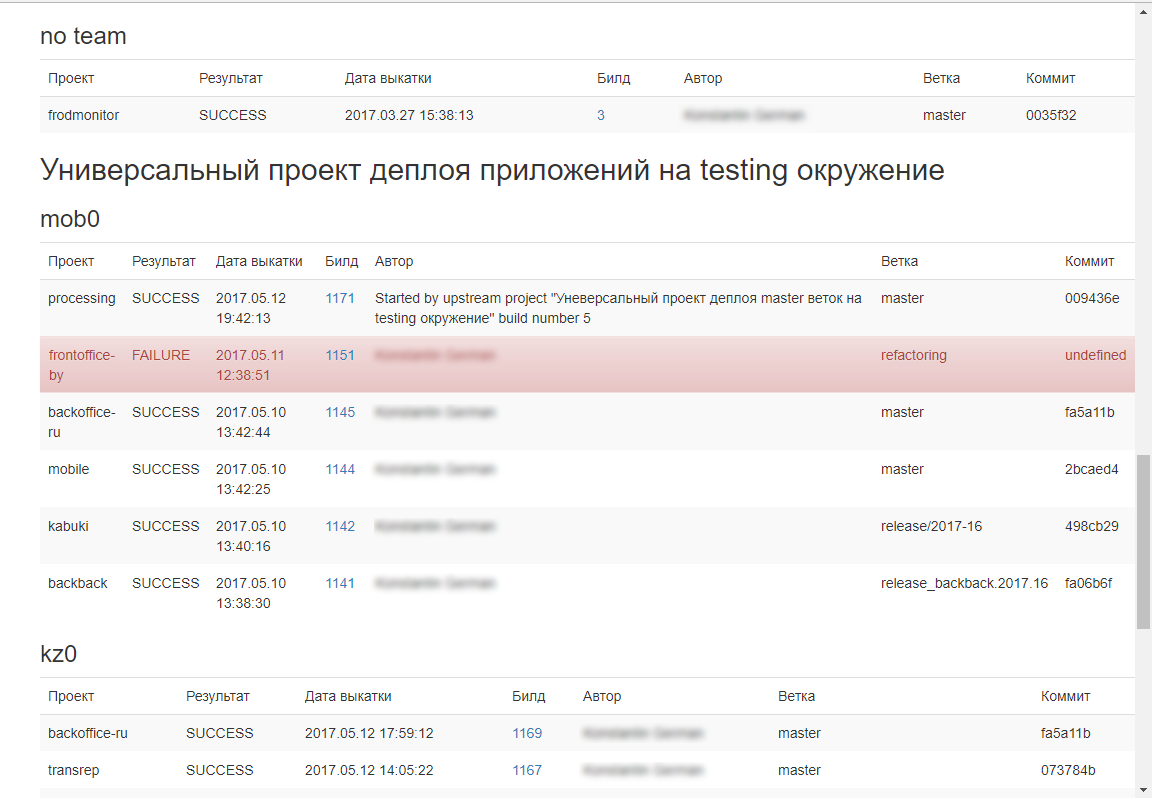
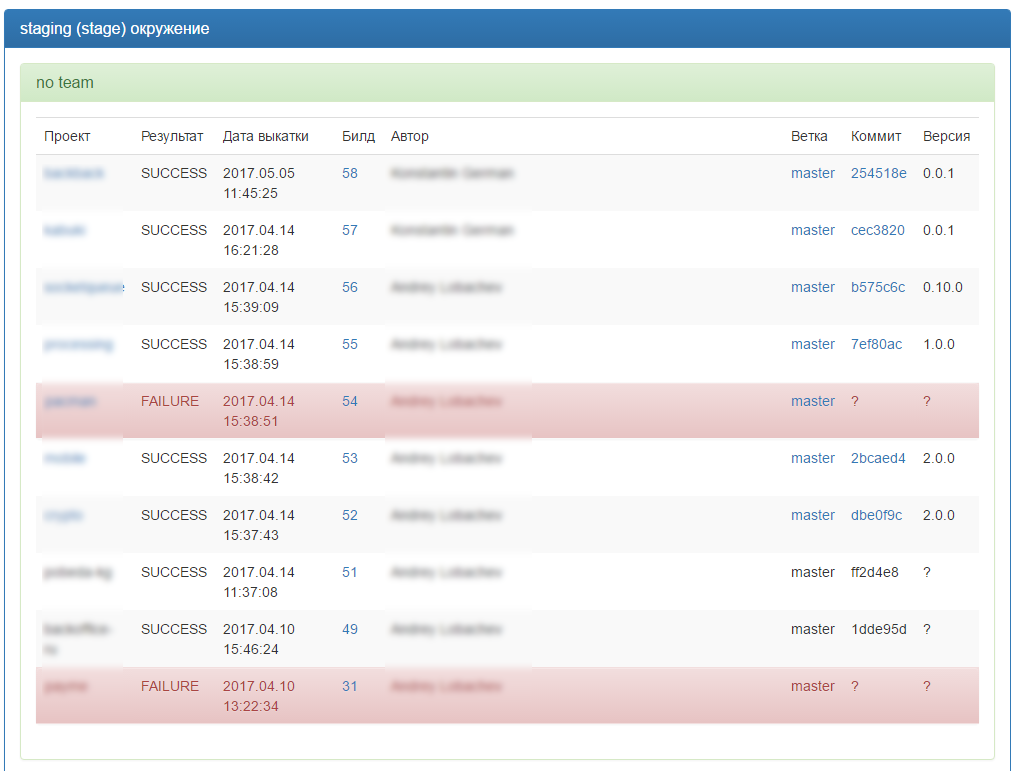
version detection, more caching, better ui

diff --git a/routes/get.js b/routes/get.js
@@ -5,24 +5,26 @@ const Jenkins = require('jenkins'),
       config  = require('../config/default.json'),
       jenkins = Jenkins(config.jenkins),
       Gitlab  = require('gitlab'),
-      gitlab  = Gitlab(config.gitlab);
+      gitlab  = Gitlab(config.gitlab),
+      json    = require('json-promise');
+
 
 let gitlabProjects = [];
 // Listing projects
 function getGitlabProjects() {
   return new Promise((resolve, reject)=> {
-      gitlab.projects.all(function (projects) {
-        projects = projects.map(function (project) {
-          return {
-            name: project.name.toLowerCase().replace('pmv3-', '').replace('-app', '').replace('api', ''),
-            url: project.web_url,
-            fullName: project.name_with_namespace.toLowerCase()
-          }
-        });
-        resolve(projects);
-      })
-    }
-  )
+    gitlab.projects.all((projects)=> {
+      projects = projects.map((project)=> {
+        return {
+          name: project.name.toLowerCase().replace('pmv3-', '').replace('-app', '').replace('api', ''),
+          url: project.web_url,
+          id: project.id,
+          fullName: project.name_with_namespace.toLowerCase(),
+        };
+      });
+      resolve(projects);
+    });
+  });
 }
 
 function getRandomIntInclusive(min, max) {
@@ -44,12 +46,22 @@ function getJobData(job) {
       if (minBuild < 1) {
         minBuild = 1;
       }
-      for (let i = jobData.lastBuild.number; i > minBuild; i--) {
-        const getBuildInfo = PromiseRandomDelay()
-          .then(()=>jenkins.build.get(job.name, i))
-          .catch((err)=> {
-            console.log(`Warning: ${err}`);
+      for (let jobId = jobData.lastBuild.number; jobId > minBuild; jobId--) {
+        const cacheFilePath = `${config.cacheDir}/${job.name}_${jobId}.json`;
+        const getBuildInfo = fs.readJson(cacheFilePath)
+          .catch(()=> { // no cache file for job exists
+            console.log(`no cache found for ${cacheFilePath}`);
+            return PromiseRandomDelay()
+              .then(()=>jenkins.build.get(job.name, jobId))
+              .then((fetchedJobData)=> {
+                fs.writeJson(cacheFilePath, fetchedJobData);
+                return fetchedJobData;
+              })
+              .catch((err)=> {
+                console.log(`Warning: ${err}`);
+              });
           });
+
         promisesArray.push(getBuildInfo);
       }
       return Promise.all(promisesArray);
@@ -136,23 +148,53 @@ function updateDataFromJenkins() {
                   if (thisGitlabProject != null) {
                     buildData.projectUrl = thisGitlabProject.url;
                     buildData.branchUrl = `${thisGitlabProject.url}/tree/${buildData.branch}`;
+
                   }
 
-                  // get user and commit from log
+                  // get user from log
                   let pos = logData.indexOf("\n");
                   buildData.user = logData.substr(0, pos).replace('Started by user', '').trim();
+
+                  // get commit from log
                   const searchString = '== `Branch';
                   pos = logData.indexOf(searchString);
                   if (pos === -1) {
-                    return;
+                    return null;
                   }
                   const searchString2 = '(at ';
                   pos = logData.indexOf(searchString2, pos);
                   buildData.commit = logData.substr(pos + searchString2.length, 7);
                   // set commit log
-                  if (thisGitlabProject != null) {
-                    buildData.commit = `<a href="${thisGitlabProject.url}/commits/${buildData.commit}">${buildData.commit}</a>`
+                  if (thisGitlabProject === null) {
+                    return null;
                   }
+                  buildData.commitUrl = `${thisGitlabProject.url}/commits/${buildData.commit}`;
+
+                  // get version info
+                  return new Promise((resolve, reject)=> {
+                    gitlab.projects.repository.showFile({
+                      projectId: thisGitlabProject.id,
+                      ref: buildData.commit,
+                      file_path: 'package.json',
+                    }, (file)=> {
+                      // console.log;
+                      // console.log("=== File ===");
+                      // console.log(file);
+                      if (file) {
+                        resolve((new Buffer(file.content, 'base64')).toString());
+                      }
+                      else reject(new Error(`no could not get package.json file for ${projectName}`));
+                    });
+                  })
+                    .then((content)=> {
+                      return json.parse(content);
+                    })
+                    .then((packageObject)=> {
+                      buildData.version = packageObject.version;
+                    })
+                    .catch((err)=> {
+                      console.log(`Warning: ${err.toString()}`);
+                    });
                 });
               getLogPromises.push(getLogPromise);
             });
@@ -165,7 +207,8 @@ function updateDataFromJenkins() {
     })
     .then((currentState)=> {
       console.log('finished');
-      fs.writeJson(config.cacheFile, currentState);
+      const cacheFile=`${config.cacheDir}/data.json`;
+      fs.writeJson(cacheFile, currentState);
       return (currentState);
       // console.log(JSON.stringify(currentState, null, 3));
     })
@@ -175,12 +218,13 @@ function updateDataFromJenkins() {
     });
 }
 module.exports = (app)=> {
+  const cacheFile=`${config.cacheDir}/data.json`;
   app.post('/get', (req, res) => {
-    fs.stat(config.cacheFile)
+    fs.stat(cacheFile)
       .then((fileDate)=> {
         const cacheAge = (new Date().getTime() - fileDate.mtime.getTime());
         if (cacheAge < config.cacheTime * 1000 * 60) {
-          return fs.readJson(config.cacheFile)
+          return fs.readJson(cacheFile)
             .then((cacheObject)=> {
               res.send(cacheObject);
             });
@@ -191,7 +235,10 @@ module.exports = (app)=> {
       console.log(`Warning: ${e}`);
       console.log('fetching gitlab projects');
       getGitlabProjects()
-        .then((projects)=>gitlabProjects = projects)
+        .then((projects)=> {
+          gitlabProjects = projects;
+          return null;
+        })
         .then(()=>updateDataFromJenkins())
         .then((data)=> {
           res.send(data);

diff --git a/src/js/index.js b/src/js/index.js
@@ -32,7 +32,7 @@ $(function () {
         throw new Error(`Не пришло данных!' ${data}`);
       }
       data.forEach((jobData)=> {
-        Object.keys(jobData).forEach(function (jobName) {
+        Object.keys(jobData).forEach((jobName)=> {
 
           let jobDisplayName = jobName;
           const pos = jobName.indexOf(' на ');
@@ -44,10 +44,19 @@ $(function () {
               jobDisplayName = `test_${jobName.substr(pos + 4)}`;
             }
           }
-          parent.append(`<h2>${jobDisplayName}</h2>`);
-          const teamData = (jobData[jobName]);
-          Object.keys(teamData).forEach(function (teamName) {
-            parent.append(`<h3>${teamName}</h3>`);
+          const jobPanel = {
+            panelHeader: $(`<div class="panel-heading"><h2 class="panel-title">${jobDisplayName}</h2></div>`),
+            panelBody: $('<div class="panel-body">'),
+            parent: $('<div class="panel panel-primary">'),
+          };
+          const teamData = jobData[jobName];
+          Object.keys(teamData).forEach((teamName)=> {
+
+            const teamPanel = {
+              panelHeader: $(`<div class="panel-heading"><h3 class="panel-title">${teamName}</h3></div>`),
+              panelBody: $('<div class="panel-body">'),
+              parent: $('<div class="panel panel-success">'),
+            };
             const projectsTable = $('<table></table>');
             const projectsTableBody = $('<tbody></tbody>');
             projectsTable.append(projectsTableBody);
@@ -60,9 +69,10 @@ $(function () {
             projectsTableTitle.append('<td>Автор</td>');
             projectsTableTitle.append('<td>Ветка</td>');
             projectsTableTitle.append('<td>Коммит</td>');
+            projectsTableTitle.append('<td>Версия</td>');
             projectsTable.append($('<thead></thead>').append(projectsTableTitle));
             const projectData = (teamData[teamName]);
-            Object.keys(projectData).forEach(function (projectName) {
+            Object.keys(projectData).forEach((projectName)=> {
               const projectsTableRow = $('<tr></tr>');
               const buildData = (projectData[projectName]);
               if (buildData.projectUrl !== undefined) {
@@ -75,19 +85,37 @@ $(function () {
               projectsTableRow.append(`<td>${moment(new Date(buildData.timestamp)).format('YYYY.MM.DD HH:mm:ss')}</td>`);
               projectsTableRow.append(`<td><a href="${buildData.url}">${buildData.id}</a></td>`);
               projectsTableRow.append(`<td style="width:400px">${buildData.user}</td>`);
+              if (buildData.commit === undefined) {
+                buildData.commit = '?';
+              }
+              if (buildData.version === undefined) {
+                buildData.version = '?';
+              }
               if (buildData.branchUrl !== undefined) {
                 projectsTableRow.append(`<td><a href="${buildData.branchUrl}">${buildData.branch}</a></td>`);
               }
               else {
                 projectsTableRow.append(`<td>${buildData.branch}</td>`);
               }
-              projectsTableRow.append(`<td>${buildData.commit}</td>`);
+              if (buildData.commit === '?' || buildData.commitUrl === undefined) {
+                projectsTableRow.append(`<td>${buildData.commit}</td>`);
+              }
+              else {
+                projectsTableRow.append(`<td><a href="${buildData.commitUrl}">${buildData.commit}</a></td>`);
+              }
+              projectsTableRow.append(`<td>${buildData.version}</td>`);
               if (buildData.result !== 'SUCCESS') {
                 projectsTableRow.attr('class', 'alert alert-danger');
               }
               projectsTableBody.append(projectsTableRow);
             });
-            parent.append(projectsTable);
+            teamPanel.panelBody.append(projectsTable);
+            teamPanel.parent.append(teamPanel.panelHeader);
+            teamPanel.parent.append(teamPanel.panelBody);
+            jobPanel.panelBody.append(teamPanel.parent);
+            jobPanel.parent.append(jobPanel.panelHeader);
+            jobPanel.parent.append(jobPanel.panelBody);
+            parent.append(jobPanel.parent);
           });
         });
       });

diff --git a/app.js b/app.js
@@ -19,9 +19,7 @@ app.use(bodyParser.urlencoded({extended: true}));
 app.use(express.static('public'));
 app.use(sendResult);
 app.firstLaunch = true;
-for (let i = 0; i < Routes.length; i++) {
-  Routes[i](app);
-}
+Routes.forEach(route=>route(app));
 
 app.listen(config.port);
 console.log('Express is up on port %d in %s mode', config.port, app.settings.env);

diff --git a/public/index.html b/public/index.html
@@ -6,7 +6,7 @@
     <title>Jenkins dashboard</title>
 </head>
 <body>
-<h2 align="center">Jenkins dashboard</h2>
+<h2 style="padding-left: 40px;">Jenkins dashboard</h2>
 <div id="dashboard">
 </div>
 

diff --git a/README.MD b/README.MD
@@ -25,7 +25,7 @@ npm install git+ssh://git@github.com:jehy/node-jenkins-dashboard.git
 {
   "port": 8000,
   "maxBuilds": 40,
-  "cacheFile": "cache/data.json",
+  "cacheDir": "cache",
   "cacheTime": 10,
   "taskFilter":"деплоя приложений",
   "crawl":
